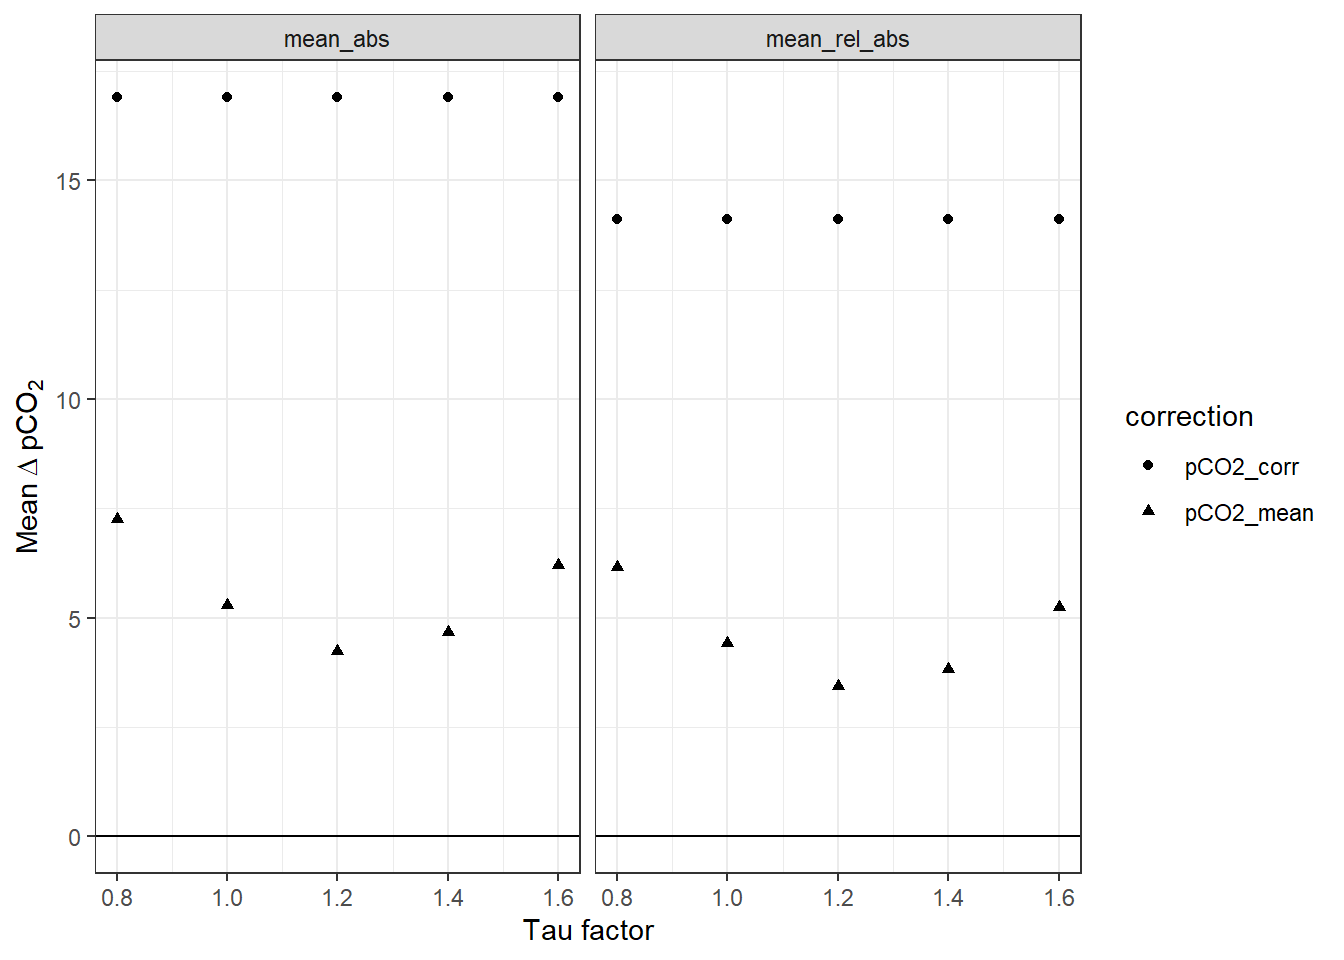
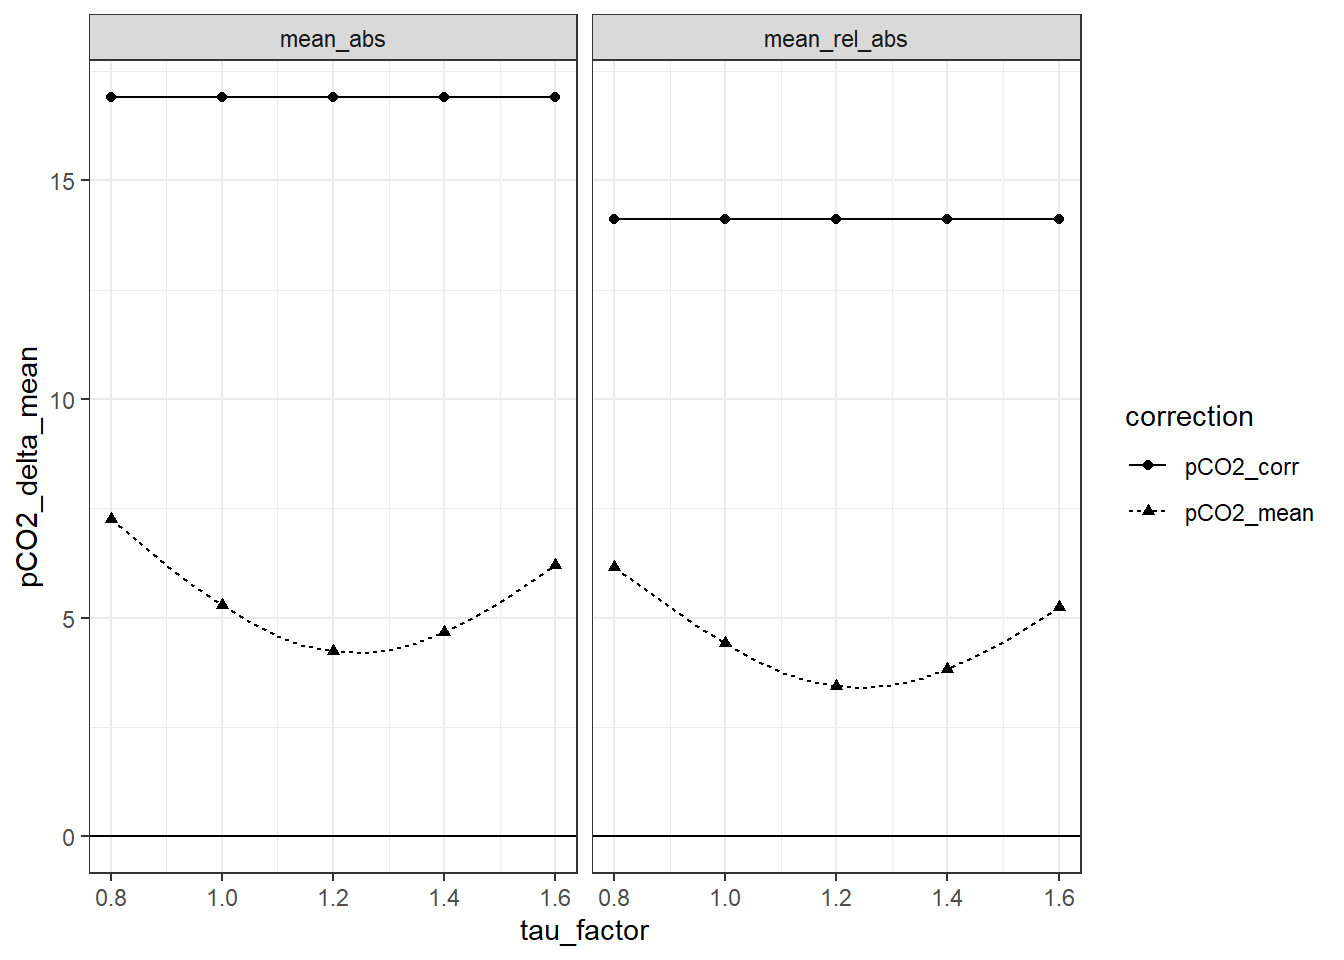
Build site.

diff --git a/docs/response_time.html b/docs/response_time.html
@@ -442,7 +442,7 @@ div.tocify {
 
 <h1 class="title toc-ignore">Response time correction of Contros HydroC pCO<sub>2</sub> data</h1>
 <h4 class="author">Jens Daniel Müller</h4>
-<h4 class="date">05 May, 2020</h4>
+<h4 class="date">06 May, 2020</h4>
 
 </div>
 
@@ -467,7 +467,7 @@ div.tocify {
 <div class="tab-content">
 <div id="summary" class="tab-pane fade in active">
 <p>
-<strong>Last updated:</strong> 2020-05-05
+<strong>Last updated:</strong> 2020-05-06
 </p>
 <p>
 <strong>Checks:</strong> <span class="glyphicon glyphicon-ok text-success" aria-hidden="true"></span> 7 <span class="glyphicon glyphicon-exclamation-sign text-danger" aria-hidden="true"></span> 0
@@ -558,16 +558,16 @@ This reproducible <a href="http://rmarkdown.rstudio.com">R Markdown</a> analysis
 <div class="panel panel-default">
 <div class="panel-heading">
 <p class="panel-title">
-<a data-toggle="collapse" data-parent="#workflowr-checks" href="#strongRepositoryversionstrongahrefhttpsgithubcomjensdanielmuellerBloomSailtreeaa283ada2d74b994bcdc2c3e7f3434a5fc2147datargetblankaa283ada"> <span class="glyphicon glyphicon-ok text-success" aria-hidden="true"></span> <strong>Repository version:</strong> <a href="https://github.com/jens-daniel-mueller/BloomSail/tree/aa283ada2d74b994bcdc2c3e7f3434a5fc2147da" target="_blank">aa283ad</a> </a>
+<a data-toggle="collapse" data-parent="#workflowr-checks" href="#strongRepositoryversionstrongahrefhttpsgithubcomjensdanielmuellerBloomSailtree53baed856c1cdd65068f5d68717dd824557830c5targetblank53baed8a"> <span class="glyphicon glyphicon-ok text-success" aria-hidden="true"></span> <strong>Repository version:</strong> <a href="https://github.com/jens-daniel-mueller/BloomSail/tree/53baed856c1cdd65068f5d68717dd824557830c5" target="_blank">53baed8</a> </a>
 </p>
 </div>
[2 lines of base64/hex data omitted]
 <div class="panel-body">
 <p>
 Great! You are using Git for version control. Tracking code development and connecting the code version to the results is critical for reproducibility.
 </p>
 <p>
-The results in this page were generated with repository version <a href="https://github.com/jens-daniel-mueller/BloomSail/tree/aa283ada2d74b994bcdc2c3e7f3434a5fc2147da" target="_blank">aa283ad</a>. See the <em>Past versions</em> tab to see a history of the changes made to the R Markdown and HTML files.
+The results in this page were generated with repository version <a href="https://github.com/jens-daniel-mueller/BloomSail/tree/53baed856c1cdd65068f5d68717dd824557830c5" target="_blank">53baed8</a>. See the <em>Past versions</em> tab to see a history of the changes made to the R Markdown and HTML files.
 </p>
 <p>
 Note that you need to be careful to ensure that all relevant files for the analysis have been committed to Git prior to generating the results (you can use <code>wflow_publish</code> or <code>wflow_git_commit</code>). workflowr only checks the R Markdown file, but you know if there are other scripts or data files that it depends on. Below is the status of the Git repository when the results were generated:
@@ -623,6 +623,40 @@ Message
 </tr>
 </thead>
 <tbody>
+<tr>
+<td>
+Rmd
+</td>
+<td>
+<a href="https://github.com/jens-daniel-mueller/BloomSail/blob/53baed856c1cdd65068f5d68717dd824557830c5/analysis/response_time.Rmd" target="_blank">53baed8</a>
+</td>
+<td>
+jens-daniel-mueller
+</td>
+<td>
+2020-05-06
+</td>
+<td>
+tau high res optimum
+</td>
+</tr>
+<tr>
+<td>
+html
+</td>
+<td>
+<a href="https://rawcdn.githack.com/jens-daniel-mueller/BloomSail/324117a121834de4175b628ec07ee955fd1f5fd5/docs/response_time.html" target="_blank">324117a</a>
+</td>
+<td>
+jens-daniel-mueller
+</td>
+<td>
+2020-05-05
+</td>
+<td>
+Build site.
+</td>
+</tr>
 <tr>
 <td>
 Rmd
@@ -3052,7 +3086,6 @@ rm(equi_cast, i_ID, i_station)</code></pre>
 <div id="down--vs-upcast" class="section level2">
 <h2><span class="header-section-number">4.1</span> Down- vs upcast</h2>
 <pre class="r"><code># pCO2 offset up - down cast
-
 tm_grid &lt;- tm %&gt;% 
   filter(phase %in% c(&quot;down&quot;, &quot;up&quot;)) %&gt;% 
   mutate(dep_grid = as.numeric(as.character( cut(dep, seq(0,40,1), seq(0.5,39.5,1)))),
@@ -3067,6 +3100,34 @@ tm_grid &lt;- tm %&gt;%
          pCO2_up_down_average = (down + up)/2,
          pCO2_delta_rel = 100 * pCO2_delta / pCO2_up_down_average)
 
+
+tm_high_res &lt;- read_csv(here::here(&quot;data/_merged_data_files/response_time&quot;,
+                          &quot;tm_RT_profiles_by_tau_factor_high_res.csv&quot;),
+               col_types = cols(ID = col_character(),
+                                Zero = col_factor(),
+                                Flush = col_factor(),
+                                p_type = col_factor(),
+                                Zero_counter = col_integer(),
+                                deployment = col_integer()))
+
+
+# pCO2 offset up - down cast
+tm_grid_high_res &lt;- tm_high_res %&gt;% 
+  filter(phase %in% c(&quot;down&quot;, &quot;up&quot;)) %&gt;% 
+  mutate(dep_grid = as.numeric(as.character( cut(dep, seq(0,40,1), seq(0.5,39.5,1)))),
+         tau_factor = as.factor(tau_factor)) %&gt;% 
+  select(ID, station, tau_factor, p_type, dep_grid, phase, pCO2_corr, pCO2_mean) %&gt;% 
+  group_by(ID, station, tau_factor, p_type, dep_grid, phase) %&gt;%
+  summarise_all(&quot;mean&quot;, na.rm = TRUE) %&gt;% 
+  ungroup() %&gt;% 
+  pivot_longer(cols = c(pCO2_corr, pCO2_mean), names_to = &quot;correction&quot;) %&gt;% 
+  pivot_wider(names_from = phase, values_from = value) %&gt;% 
+  mutate(pCO2_delta = up - down,
+         pCO2_up_down_average = (down + up)/2,
+         pCO2_delta_rel = 100 * pCO2_delta / pCO2_up_down_average)
+
+
+
 # descritize depth recordings of equilibrated pCO2 values
 
 tm_pCO2_equi_grid &lt;- tm_pCO2_equi %&gt;%
@@ -3078,6 +3139,10 @@ tm_grid %&gt;%
  write_csv(here::here(&quot;data/_merged_data_files/response_time&quot;,
                       &quot;tm_grid.csv&quot;))
 
+tm_grid_high_res %&gt;% 
+ write_csv(here::here(&quot;data/_merged_data_files/response_time&quot;,
+                      &quot;tm_grid_high_res.csv&quot;))
+
 tm_pCO2_equi_grid %&gt;% 
  write_csv(here::here(&quot;data/_merged_data_files/response_time&quot;,
                       &quot;tm_pCO2_equi_grid.csv&quot;))
@@ -3087,6 +3152,11 @@ rm(tm_grid, tm_pCO2_equi_grid)</code></pre>
 <pre class="r"><code>tm_grid &lt;-
  read_csv(here::here(&quot;data/_merged_data_files/response_time&quot;,
                       &quot;tm_grid.csv&quot;),
+               col_types = cols(ID = col_character()))
+
+tm_grid_high_res &lt;-
+ read_csv(here::here(&quot;data/_merged_data_files/response_time&quot;,
+                      &quot;tm_grid_high_res.csv&quot;),
                col_types = cols(ID = col_character()))
 
 tm_pCO2_equi_grid &lt;-
@@ -3343,6 +3413,20 @@ tm_grid_stat %&gt;%
 <p><img src="figure/response_time.Rmd/identify_max_dep_pCO2_within_profiles-1.png" width="672" style="display: block; margin: auto;" /></p>
 <pre class="r"><code>tm_grid &lt;- full_join(tm_grid, tm_grid_stat)
 rm(tm_grid_stat)</code></pre>
+<pre class="r"><code>tm_grid_stat_high_res &lt;- tm_grid_high_res %&gt;% 
+  filter(correction == &quot;pCO2_mean&quot;) %&gt;% 
+  #drop_na() %&gt;% 
+  group_by(ID, station) %&gt;% 
+  summarise(dep_max = max(dep_grid),
+            pCO2_max = max(down)) %&gt;% 
+  ungroup()
+
+tm_grid_stat_high_res %&gt;% 
+  ggplot(aes(dep_max, pCO2_max))+
+  geom_point()</code></pre>
+<p><img src="figure/response_time.Rmd/identify_max_dep_pCO2_within_profiles_high_res-1.png" width="672" style="display: block; margin: auto;" /></p>
+<pre class="r"><code>tm_grid_high_res &lt;- full_join(tm_grid_high_res, tm_grid_stat_high_res)
+rm(tm_grid_stat_high_res)</code></pre>
 <div id="define-dep-and-pco2-thresholds" class="section level3">
 <h3><span class="header-section-number">4.3.1</span> Define dep and pCO2 thresholds</h3>
 <pre class="r"><code>dep_max_lim &lt;- 25
@@ -3356,8 +3440,30 @@ pCO2_max_lim &lt;- 250</code></pre>
   ungroup() %&gt;% 
   filter(nr_na &lt;= 2)
 
+tm_grid_shallow_high_res &lt;- tm_grid_high_res %&gt;% 
+  filter(dep_max &lt;= dep_max_lim,
+         pCO2_max &lt;= pCO2_max_lim) %&gt;% 
+  group_by(ID, station, tau_factor, correction) %&gt;% 
+  mutate(nr_na = sum(is.na(pCO2_delta))) %&gt;% 
+  ungroup() %&gt;% 
+  filter(nr_na &lt;= 2)
+
 
 tm_grid_shallow_sum &lt;- tm_grid_shallow %&gt;% 
+  mutate(pCO2_delta_abs = abs(pCO2_delta),
+         pCO2_delta_rel_abs = abs(pCO2_delta_rel)) %&gt;% 
+  group_by(tau_factor, dep_grid, correction) %&gt;% 
+  summarise(mean         = mean(pCO2_delta, na.rm = TRUE),
+            sd           = sd(pCO2_delta, na.rm = TRUE),
+            mean_abs     = mean(pCO2_delta_abs, na.rm = TRUE),
+            mean_rel     = mean(pCO2_delta_rel, na.rm = TRUE),
+            sd_rel       = sd(pCO2_delta_rel, na.rm = TRUE),
+            mean_rel_abs = mean(pCO2_delta_rel_abs, na.rm = TRUE)) %&gt;% 
+  ungroup() %&gt;% 
+  pivot_longer(cols = sd:mean_rel_abs,
+               names_to = &quot;estimate&quot;, values_to = &quot;pCO2_delta&quot;)
+
+tm_grid_shallow_sum_high_res &lt;- tm_grid_shallow_high_res %&gt;% 
   mutate(pCO2_delta_abs = abs(pCO2_delta),
          pCO2_delta_rel_abs = abs(pCO2_delta_rel)) %&gt;% 
   group_by(tau_factor, dep_grid, correction) %&gt;% 
@@ -3401,24 +3507,23 @@ tm_equi_delta_sum &lt;- tm_equi_delta %&gt;%
 Offset between up- and downcast. Panel columns: Constant and T-dependent tau. Panel rows from top to bottom: Mean of absolute offset, mean of relative absolute offset, standard deviation of offset, standard deviation of relative offset.
 </p>
 </div>
-<pre class="r"><code># RT_diff_sum_mean_highres &lt;-
-#  read_csv(here::here(&quot;data/_merged_data_files&quot;,
-#                       &quot;X_BloomSail_CTD_HydroC_profiles_RT_cast-offset_highres_taufactor_mean.csv&quot;)) %&gt;% 
-#   filter(estimate %in% c(&quot;mean_abs&quot;, &quot;mean_rel_abs&quot;))
-
-tm_grid_shallow_sum_mean &lt;- tm_grid_shallow_sum %&gt;% 
+<pre class="r"><code>tm_grid_shallow_sum_mean &lt;- tm_grid_shallow_sum %&gt;% 
   group_by(estimate, correction, tau_factor) %&gt;% 
   summarise(pCO2_delta_mean = mean(pCO2_delta)) %&gt;% 
   ungroup()
 
-tm_grid_shallow_sum_mean %&gt;% 
-  filter(estimate %in% c(&quot;mean_abs&quot;, &quot;mean_rel_abs&quot;)) %&gt;% 
-  ggplot(aes(tau_factor, pCO2_delta_mean, linetype=correction, shape=correction))+
-  # geom_line(data = RT_diff_sum_mean_highres, 
-  #           aes(tau_factor, mean_dpCO2))+
-  geom_point()+
+tm_grid_shallow_sum_mean_high_res &lt;- tm_grid_shallow_sum_high_res %&gt;% 
+  group_by(estimate, correction, tau_factor) %&gt;% 
+  summarise(pCO2_delta_mean = mean(pCO2_delta)) %&gt;% 
+  ungroup()
+
+
+ggplot()+
+  geom_point(data = tm_grid_shallow_sum_mean %&gt;% filter(estimate %in% c(&quot;mean_abs&quot;, &quot;mean_rel_abs&quot;)),
+             aes(tau_factor, pCO2_delta_mean, linetype=correction, shape=correction))+
+  geom_line(data = tm_grid_shallow_sum_mean_high_res %&gt;% filter(estimate %in% c(&quot;mean_abs&quot;, &quot;mean_rel_abs&quot;)),
+             aes(tau_factor, pCO2_delta_mean, linetype=correction, shape=correction))+
   geom_hline(yintercept = 0)+
-  labs(x=&quot;Tau factor&quot;, y=expression(Mean~Delta~pCO[2]))+
   facet_wrap(~estimate)</code></pre>
 <div class="figure" style="text-align: center">
 <img src="figure/response_time.Rmd/plot_tau_optimum_cast_delta_pCO2-1.png" alt="Mean offset between up- and downcast for all profiles up to 20m water depth. The lines between discrete tau factors result from the same analysis performed with high resolution of the tau factor. Left Panel: Mean absolute offset (µatm). Right panel: Mean relative offset (% of absolute value)." width="672" />
@@ -3426,18 +3531,20 @@ tm_grid_shallow_sum_mean %&gt;%
 Mean offset between up- and downcast for all profiles up to 20m water depth. The lines between discrete tau factors result from the same analysis performed with high resolution of the tau factor. Left Panel: Mean absolute offset (µatm). Right panel: Mean relative offset (% of absolute value).
 </p>
 </div>
-<p>Below we determined the tau factor that corresponds to lowest absolute and relative mean offsets, respectively.</p>
-<pre class="r"><code>RT_diff_sum_mean_highres %&gt;%
+<p>Below we determined the tau factor that corresponds to lowest absolute mean offset.</p>
+<pre class="r"><code>pCO2_delta_mean_min &lt;- tm_grid_shallow_sum_mean_high_res %&gt;%
   filter(correction == &quot;pCO2_mean&quot;, estimate %in% c(&quot;mean_abs&quot;)) %&gt;% 
-  slice(which.min(mean_dpCO2)) %&gt;% 
-  select(tau_factor, mean_dpCO2) %&gt;% 
-  rename(mean_abs=mean_dpCO2)
+  slice(which.min(pCO2_delta_mean)) %&gt;% 
+  select(pCO2_delta_mean) %&gt;% 
+  pull() %&gt;% 
+  round(2)
 
-RT_diff_sum_mean_highres %&gt;%
-  filter(correction == &quot;pCO2_mean&quot;, estimate == &quot;mean_rel_abs&quot;) %&gt;% 
-  slice(which.min(mean_dpCO2)) %&gt;% 
-  select(tau_factor, mean_dpCO2) %&gt;% 
-  rename(mean_rel_abs=mean_dpCO2)</code></pre>
+tau_factor_min &lt;- tm_grid_shallow_sum_mean_high_res %&gt;%
+  filter(correction == &quot;pCO2_mean&quot;, estimate %in% c(&quot;mean_abs&quot;)) %&gt;% 
+  slice(which.min(pCO2_delta_mean)) %&gt;% 
+  select(tau_factor) %&gt;% 
+  pull()</code></pre>
+<p>A tau factor of 1.25 resulted in the lowest absolute mean offset (4.2 µatm) and will be used for response time correction.</p>
 <p>Likewise, we analyse the offset from the pCO<sub>2</sub> reference value:</p>
 <pre class="r"><code># tm_equi_delta_sum_highres &lt;-
 #  read_csv(here::here(&quot;data/_merged_data_files&quot;,
